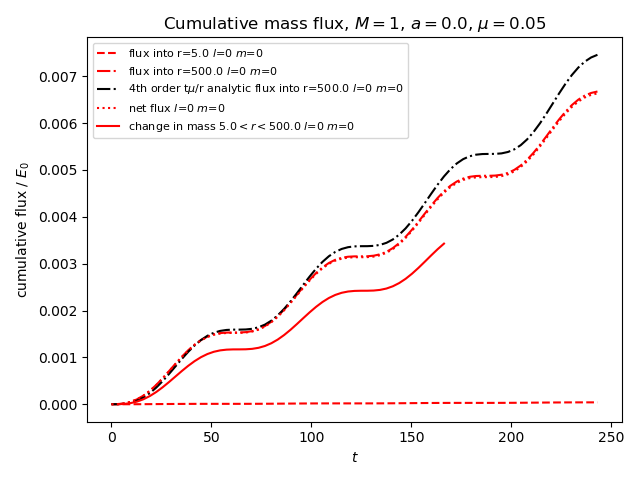
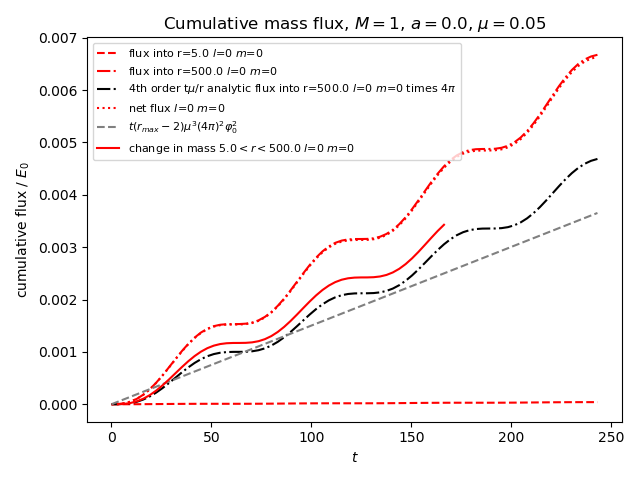
new plots

diff --git a/Analysis/scripts/plot_mass_flux_KS.py b/Analysis/scripts/plot_mass_flux_KS.py
@@ -79,7 +79,7 @@ def analytic_flux(t, r, l, m, a, mu, cumulative):
 			F2=(-(16/3)*np.cos(2*tau)*mu**2+4*np.sin(2*tau)*mu-1/3)*tau**3+1/4*(-mu*a**2-3*mu*cos2theta*a**2-6*m*a+8*L*mu+120*mu-6*(L+12)*mu*np.cos(2*tau)-8*L*mu**2*np.sin(2*tau)-128*mu**2*np.sin(2*tau)-6*np.sin(2*tau))*tau**2+1/4*(-64*m**2*a**2+8*mu**2*a**2-mu*cos2theta*(4*np.cos(2*tau)*mu-8*mu-3*np.sin(2*tau))*a**2+mu*np.sin(2*tau)*a**2+16*m*mu*a+6*m*np.sin(2*tau)*a-16*L*mu**2-256*mu**2-2*(2*a**2*mu**2-2*(3*L+44)*mu**2+4*a*m*mu+1)*np.cos(2*tau)-2*L*mu*np.sin(2*tau)-48*mu*np.sin(2*tau)+16)*tau+(1/(8*mu))*(-4*a**2*np.sin(2*tau)*mu**3+4*L*np.sin(2*tau)*mu**3+80*np.sin(2*tau)*mu**3-8*a**2*cos2theta*np.sin(2*tau)*mu**3-a**2*mu**2-6*a**2*cos2theta*(np.sin(tau)**2)*mu**2+2*L*mu**2-8*a*m*np.sin(2*tau)*mu**2+48*mu**2-6*a*m*mu+64*a**2*m**2*np.sin(2*tau)*mu-14*np.sin(2*tau)*mu+144*a**2*m**2+((48*m**2+mu**2)*a**2+6*m*mu*a-2*(L+24)*mu**2)*np.cos(2*tau)+8*a**2*np.cos(tau)*(mu**3*cos2theta*np.sin(tau)-24*m**2))
 			F3=-(((16*np.sin(2*tau)*mu**3+16*np.cos(2*tau)*mu**2+1)*tau**4)/(3*mu))+(1/(6*mu**2))*(3*L*mu**2+4*((6*L+88)*mu**2-1)*np.cos(2*tau)*mu**2+80*mu**2-4*a*m*mu-4*((6*L+80)*mu**2-1)*np.sin(2*tau)*mu+2)*tau**3-(1/(4*mu**2))*(16*a**2*np.sin(2*tau)*mu**4-L**2*np.sin(2*tau)*mu**4-64*L*np.sin(2*tau)*mu**4-752*np.sin(2*tau)*mu**4-20*a**2*mu**3+52*L*mu**3+32*a*m*np.sin(2*tau)*mu**3+a**2*cos2theta*(-L+16*np.cos(2*tau)+16*mu*np.sin(2*tau)-36)*mu**3+800*mu**3-40*a*m*mu**2+L*np.sin(2*tau)*mu**2+20*np.sin(2*tau)*mu**2+L*mu+(8*a**2*mu**2-L**2*mu**2-44*L*mu**2-544*mu**2+36*a*m*mu+L+2)*np.cos(2*tau)*mu-4*a*m*np.sin(2*tau)*mu+6*mu+2*np.sin(2*tau))*tau**2+(1/(8*mu**2))*(2*a**2*cos2theta*(((L+40)*mu**2+2)*np.cos(2*tau)-2*((L+32)*mu**2+(L+20)*np.cos(tau)*np.sin(tau)*mu-2))*mu**2+(-(L**2+104*L+1488)*mu**4+12*(L+3)*mu**2+32*a*m*(3*mu**3+mu)+a**2*(2*(L+40)*mu**4-192*m**2*mu**2)-16)*np.cos(2*tau)+4*(-32*a**2*mu**4-a**2*L*mu**4+32*L*mu**4+512*mu**4-32*a*m*mu**3+96*a**2*m**2*mu**2+6*L*mu**2+10*mu**2+12*a*m*mu-(96*a**2*m**2+L**2*mu**2*np.cos(tau))*np.sin(tau)*mu+(6*(8*m**2-mu**2)*a**2-2*m*mu*a+4*L*mu**2+128*mu**2+L+4)*np.sin(2*tau)*mu-6))*tau+(1/(8*mu**2))*(2*a**2*cos2theta*np.sin(tau)*(((L+24)*mu**2-6)*np.cos(tau)+(L+20)*mu*np.sin(tau))*mu**2+(-288*a**2*m**2+4*a*mu*m+12*a**2*mu**2+L**2*mu**2-8*L*mu**2-256*mu**2-2*L+(-12*(8*m**2+mu**2)*a**2-4*m*mu*a-L**2*mu**2+8*L*mu**2+256*mu**2+2*L+8)*np.cos(2*tau)+(((L+24)*mu**3-96*m**2*mu)*a**2+8*m*(2*mu**2-5)*a-2*mu*(140*mu**2+9*L+19))*np.sin(2*tau)-8)*mu+np.cos(tau)*(384*a**2*mu*m**2+(L**2*mu**4-24*L*mu**4+40)*np.sin(tau)))
 			F4=-((mu*tau**6)/9)+1/15*(4*L*mu**2+60*np.cos(2*tau)*mu**2+56*mu**2-75*np.sin(2*tau)*mu-28)*tau**5+1/96*(-120*mu*a**2-120*mu*cos2theta*a**2-336*m*a+15*L**2*mu+576*L*mu+6864*mu+(560*L*mu+7824*mu-160/mu)*np.cos(2*tau)+448*L*mu**2*np.sin(2*tau)+6336*mu**2*np.sin(2*tau)-448*np.sin(2*tau)-(18*L)/mu+116/mu)*tau**4+1/48*(32*L*mu**2*a**2+768*mu**2*a**2-168*mu*np.sin(2*tau)*a**2+8*cos2theta*(4*L*mu**2+36*np.cos(2*tau)*mu**2+96*mu**2-45*np.sin(2*tau)*mu+2)*a**2+1024*m*mu*a+32*m*L*mu*a-816*m*np.sin(2*tau)*a+(288*m*a)/mu-32*L**2*mu**2-1472*L*mu**2-15616*mu**2-48*L+(1/(mu**2))*4*(72*a**2*mu**4-(9*L**2+400*L+4096)*mu**4+(6*L+236)*mu**2+6*a*m*(24*mu**2-5)*mu+15)*np.cos(2*tau)+45*L**2*mu*np.sin(2*tau)+1744*L*mu*np.sin(2*tau)+18144*mu*np.sin(2*tau)-(30*L*np.sin(2*tau))/mu-(148*np.sin(2*tau))/mu-152/mu**2-2432)*tau**3+(-((3*mu*a**4)/4)-(3*m*a**3)/2-1/4*L*mu*a**2-(25*mu*a**2)/2+(48*m**2*np.cos(tau)*a**2)/mu-1/4*L*mu*np.cos(2*tau)*a**2+45/4*mu*np.cos(2*tau)*a**2-(40*m**2*np.cos(2*tau)*a**2)/mu-32*m**2*np.sin(2*tau)*a**2+L*mu**2*np.sin(2*tau)*a**2+27*mu**2*np.sin(2*tau)*a**2+np.sin(2*tau)*a**2+1/4*cos2theta*(-(3*a**2+7*L+146)*mu+(5*L+109)*np.cos(2*tau)*mu+2*(2*(L+27)*mu**2+5)*np.sin(2*tau))*a**2-(24*m**2*a**2)/mu-(m**2*L*a**2)/mu-37*m*a-(5*m*L*a)/4+67/2*m*np.cos(2*tau)*a+5/4*m*L*np.cos(2*tau)*a+38*m*mu*np.sin(2*tau)*a+m*L*mu*np.sin(2*tau)*a+(35*m*np.sin(2*tau)*a)/(4*mu)+(5*L**2*mu)/16+(95*L*mu)/2+621*mu-21/32*L**2*mu*np.cos(2*tau)-44*L*mu*np.cos(2*tau)-518*mu*np.cos(2*tau)-(5*L*np.cos(2*tau))/(16*mu)+np.cos(2*tau)/(8*mu)+25*np.cos(tau)*np.sin(tau)-11/8*L**2*mu**2*np.sin(2*tau)-60*L*mu**2*np.sin(2*tau)-624*mu**2*np.sin(2*tau)+15/4*L*np.sin(2*tau)-(25*np.sin(2*tau))/(8*mu**2)+(9*L)/(8*mu)+27/(4*mu))*tau**2+(3/4*mu*np.sin(2*tau)*a**4+3*m*np.cos(tau)*np.sin(tau)*a**3-128*m**2*a**2+2*L*mu**2*a**2+36*mu**2*a**2-8*m**2*L*a**2-(24*m**2*np.cos(tau)*a**2)/mu**2+80*m**2*np.cos(2*tau)*a**2-L*mu**2*np.cos(2*tau)*a**2-21*mu**2*np.cos(2*tau)*a**2+4*m**2*L*np.cos(2*tau)*a**2+(10*m**2*np.cos(2*tau)*a**2)/mu**2+L*mu*np.cos(tau)*np.sin(tau)*a**2+(240*m**2*np.sin(tau)*a**2)/mu+(12*m**2*L*np.sin(tau)*a**2)/mu+5/4*mu*np.sin(2*tau)*a**2-(104*m**2*np.sin(2*tau)*a**2)/mu-(5*m**2*L*np.sin(2*tau)*a**2)/mu+1/4*cos2theta*(8*(L+18)*mu**2+(3*a**2+2*L+37)*np.sin(2*tau)*mu+(6-4*(L+21)*mu**2)*np.cos(2*tau)-20)*a**2+(8*m**2*a**2)/mu**2-3*a**2+40*m*mu*a+2*m*L*mu*a-26*m*mu*np.cos(2*tau)*a-m*L*mu*np.cos(2*tau)*a+(11*m*np.cos(2*tau)*a)/(4*mu)+7*m*np.cos(tau)*np.sin(tau)*a-(26*m*a)/mu-(L**2*mu**2)/2-44*L*mu**2-520*mu**2-11*L+5/8*L**2*mu**2*np.cos(2*tau)+32*L*mu**2*np.cos(2*tau)+352*mu**2*np.cos(2*tau)-1/4*L*np.cos(2*tau)*-np.cos(2*tau)/(8*mu**2)-31/2*np.cos(2*tau)-7*L*mu*np.cos(tau)*np.sin(tau)-(13*L*np.cos(tau)*np.sin(tau))/(8*mu)+11/32*L**2*mu*np.sin(2*tau)-103*mu*np.sin(2*tau)-(55*np.sin(2*tau))/(8*mu)+12/mu**2-22)*tau+1/64*(-48*mu*cos2theta*(np.sin(tau)**2)*a**4-24*mu*a**4+(1152*m**2*a**4)/mu-48*m*a**3-32*L*mu*cos2theta*(np.sin(tau)**2)*a**2-592*mu*cos2theta*(np.sin(tau)**2)*a**2-16*L*mu*a**2-40*mu*a**2+(1536*m**2*np.sin(tau)*a**2)/mu**2-(32*np.cos(tau)*(48*a**2*m**2+mu*(2*(L+15)*mu**2-7)*cos2theta*np.sin(tau))*a**2)/mu+1536*m**2*np.sin(2*tau)*a**2-32*L*mu**2*np.sin(2*tau)*a**2-480*mu**2*np.sin(2*tau)*a**2+128*m**2*L*np.sin(2*tau)*a**2-(576*m**2*np.sin(2*tau)*a**2)/mu**2+96*np.sin(2*tau)*a**2-(512*m**2*a**2)/mu-(32*m**2*L*a**2)/mu-112*m*a-448*m*mu*np.sin(2*tau)*a-32*m*L*mu*np.sin(2*tau)*a+(744*m*np.sin(2*tau)*a)/mu-11*L**2*mu+112*L*mu+3296*mu+(1/mu)*(24*(16*m**2+mu**2)*a**4+48*m*mu*a**3+8*(4*(L+16)*m**2+(2*L+5)*mu**2)*a**2+112*m*mu*a+11*L**2*mu**2-2*L*(56*mu**2+13)-4*(824*mu**2+55))*np.cos(2*tau)-4*L**2*mu**2*np.sin(2*tau)+384*L*mu**2*np.sin(2*tau)+5376*mu**2*np.sin(2*tau)+360*L*np.sin(2*tau)-(380*np.sin(2*tau))/mu**2+1200*np.sin(2*tau)+(26*L)/mu+220/mu)
-	Flux=(F0 + F1/r + F2/r**2 + F3/r**3 + F4/r**4)/mu 
+	Flux=(F0 + F1/r + F2/r**2 + F3/r**3 + F4/r**4)
 	return Flux
 
 def time_average(x, n):
@@ -171,7 +171,7 @@ def plot_graph():
 			dt = tflux[2] - tflux[1]
 			inner_mass_flux = np.cumsum(inner_mass_flux)*dt
 			outer_mass_flux = np.cumsum(outer_mass_flux)*dt
-			analytic_outer_flux = analytic_flux(tflux, r_max, dd.l, dd.m, dd.a, mu, True)*(4*np.pi)*phi0**2/(E0)
+			analytic_outer_flux = analytic_flux(tflux, r_max, dd.l, dd.m, dd.a, mu, True)*(4*np.pi)*phi0**2/(E0)*(4*np.pi)
 		elif not cumulative:
 			analytic_outer_flux = analytic_flux(tflux, r_max, dd.l, dd.m, dd.a, mu, False)*(4*np.pi)*phi0**2/(E0)
 		net_flux = outer_mass_flux - inner_mass_flux
@@ -179,8 +179,9 @@ def plot_graph():
 		label_ = "$l$={:d} $m$={:d}".format(dd.l, dd.m)
 		ax1.plot(tflux,inner_mass_flux,colours[i]+"--", label="flux into r={:.1f} ".format(r_min)+label_)
 		ax1.plot(tflux,outer_mass_flux,colours[i]+"-.", label="flux into r={:.1f} ".format(r_max)+label_)
-		ax1.plot(tflux,analytic_outer_flux,colours2[i]+"-.", label="4th order t$\\mu$/r analytic flux into r={:.1f} ".format(r_max)+label_)
+		ax1.plot(tflux,analytic_outer_flux,colours2[i]+"-.", label="4th order t$\\mu$/r analytic flux into r={:.1f} ".format(r_max)+label_+" times 4$\\pi$")
 		ax1.plot(tflux,net_flux,colours[i]+":", label="net flux " + label_)
+		ax1.plot(tflux,tflux*(r_max-2)*(mu**3)*(4*np.pi)*phi0**2/(E0)*(4*np.pi),color="0.5",linestyle="dashed",label="$t(r_{max}-2)\\mu^3 (4\\pi)^2 \\varphi^2_0$")
 		#
 		if plot_mass:
 			mass_line_data = mass_data[dd.num]

diff --git a/Source/utils/assoc_legendre.hpp b/Source/utils/assoc_legendre.hpp
@@ -15,6 +15,7 @@ template <class data_t> struct P_lm
 };
 
 // calculate the associated legendre polynomials with coefficients suitable for the spherical harmonics
+// normalised to integrate over a sphere to 4 PI
 // c = cos(theta)
 // s = sin(theta) 
 template <class data_t> 
